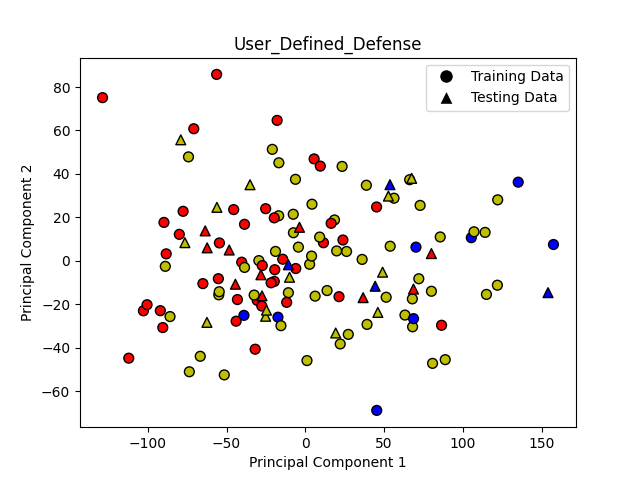
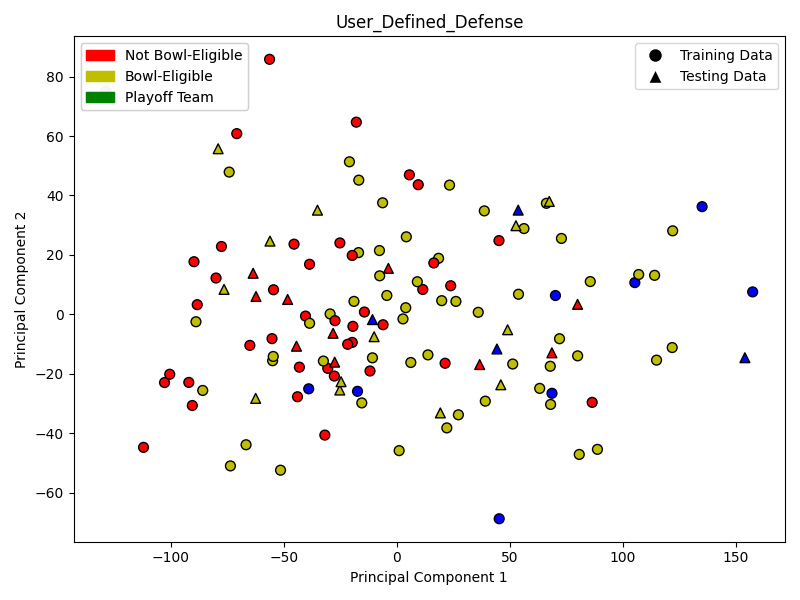
More graph enhancements + comment cleanup)

diff --git a/src/graphs.py b/src/graphs.py
@@ -5,24 +5,54 @@ import seaborn as sns
 import matplotlib.pyplot as plt
 
 
-def knn_scatter(x_train, x_test, y_train, y_test, feature_selection):
+def knn_scatter(x_train, x_test, y_train, y_test, feature_selection) -> None:
+    """
+    This function makes a scatter plot showing the data we are performing kNN on but averaged
+    down to just 2 features (using PCA).
+    :param x_train: x training data (after PCA)
+    :param x_test: x testing data (after PCA)
+    :param y_train: y training data (after PCA)
+    :param y_test: y testing data (after PCA)
+    :param feature_selection: The type of classifier used
+    :return: None
+    """
+    fig, ax = plt.subplots(figsize=(8, 6))
     cmap = ListedColormap(['r', 'y', 'b'])
 
     # Plotting training and testing data
-    plt.scatter(x_train[:, 0], x_train[:, 1], c=y_train, cmap=cmap ,label='Training Data', edgecolor='k', s=50)
-    plt.scatter(x_test[:, 0], x_test[:, 1], c=y_test, cmap=cmap, label='Testing Data', edgecolor='k', s=50, marker='^')
-    plt.xlabel('Principal Component 1')
-    plt.ylabel('Principal Component 2')
-    plt.title(f'{feature_selection}')
-    #plt.legend()
-    # Create a legend with black points
-    handles = [plt.Line2D([0], [0], marker='o', color='w', markerfacecolor='k', markersize=10, label='Training Data'),
+    ax.scatter(x_train[:, 0], x_train[:, 1], c=y_train, cmap=cmap ,label='Training Data', edgecolor='k', s=50)
+    ax.scatter(x_test[:, 0], x_test[:, 1], c=y_test, cmap=cmap, label='Testing Data', edgecolor='k', s=50, marker='^')
+    ax.set_xlabel('Principal Component 1')
+    ax.set_ylabel('Principal Component 2')
+    ax.set_title(f'{feature_selection}')
+
+    # Create a legend showing training vs testing data
+    handles1 = [plt.Line2D([0], [0], marker='o', color='w', markerfacecolor='k', markersize=10, label='Training Data'),
                plt.Line2D([0], [0], marker='^', color='w', markerfacecolor='k', markersize=10, label='Testing Data')]
-    plt.legend(handles=handles)
+    legend1 = ax.legend(loc='upper right', handles=handles1)
+    ax.add_artist(legend1)
+
+    # Create a legend showing label classifications
+    handles2 = [plt.Rectangle((0, 0), 1, 1, color='r', label='Not Bowl-Eligible'),
+                plt.Rectangle((0, 0), 1, 1, color='y', label='Bowl-Eligible'),
+                plt.Rectangle((0, 0), 1, 1, color='g', label='Playoff Team')]
+    legend2 = ax.legend(loc='upper left', handles=handles2)
+    ax.add_artist(legend2)
+
+    # Create a second legend for specific elements (upper right corner)
+    plt.tight_layout()
     plt.savefig(f"../data/plots/scatter_plot_{feature_selection}.png")
     plt.close()
 
-def misclassification_count(m: list):
+def misclassification_count(m: list) -> None:
+    """
+    This function makes a bar graph showing the number of times each sample
+    was misclassified amongst all runs of our kNN algorithms.
+    :param m: list of tuples where each tuple contains:
+    tuple[0]: The team (or sample)
+    tuple[1]: The number of times it was misclassified
+    :return: None
+    """
     labels = [item[0] for item in m]
     values = [item[1] for item in m]
     clfs = [item[2] for item in m]
@@ -35,13 +65,6 @@ def misclassification_count(m: list):
             bar.set_color('yellow')
         elif clf == 2:
             bar.set_color('green')
-
-    #plt.legend(bars[::2], ['Playoff Team', 'Bowl-eligible', 'Not Bowl-eligible'])
-
-    # handles = [plt.Line2D([0], [0], marker='o', color='b', markerfacecolor='k', markersize=10, label='Playoff Team'),
-    #            plt.Line2D([0], [0], marker='^', color='y', markerfacecolor='k', markersize=10, label='Bowl-eligible'),
-    #            plt.Line2D([0], [0], marker='^', color='r', markerfacecolor='k', markersize=10, label='Not Bowl-eligible')]
-    # plt.legend(handles=handles)
 
     legend_elements = [plt.Rectangle((0, 0), 1, 1, color=color) for color in ['green', 'yellow', 'red']]
     plt.legend(legend_elements, ['Playoff Team', 'Bowl-eligible', 'Not Bowl-eligible'])
@@ -56,11 +79,12 @@ def misclassification_count(m: list):
     plt.savefig(f"../data/plots/misclassifications_count.png")
     plt.close()
 
-def accuracy_comparison(labels, values):
+def accuracy_comparison(labels, values) -> None:
     """
     This graphs a comparison graph of different kNN runs by comparing accuracy scores
-    :param labels:
-    :param values:
+    :param labels: List of labels where each label is a classifier type
+    :param values: List of values where each value is an accuracy score for the
+    corresponding classifier
     :return: None
     """
     plt.bar(labels, values)
@@ -71,7 +95,7 @@ def accuracy_comparison(labels, values):
     plt.savefig(f"../data/plots/accuracy_comparison.png")
     plt.close()
 
-def confusion(test, pred, feature_selection, k):
+def confusion(test, pred, feature_selection, k) -> None:
     """
     This function prints a confusion matrix using the actual(test) labels vs the predicted labels.
     The confusion matrix is a heatmap where the darker the blue, the more correct predictions were made.

diff --git a/src/classify.py b/src/classify.py
@@ -14,6 +14,13 @@ import graphs
 scores = []
 
 def user_chosen_features(x, choice) -> DataFrame:
+    """
+    This function isolates the features that are user chosen
+    :param x: X data
+    :param choice: which user chosen option we are using
+    :return: DataFrame representing modified dataset with just the features
+    chosen by user
+    """
     features = None
     if choice == "saehej":
         pass
@@ -26,6 +33,8 @@ def user_chosen_features(x, choice) -> DataFrame:
 
     if features is not None:
         return x[features].copy()
+    else:
+        return None
 
 
 def get_rfe_features(x, y, estimator_type="support_vector_machine", num_features=5) -> DataFrame:
@@ -64,17 +73,28 @@ def get_rfe_features(x, y, estimator_type="support_vector_machine", num_features
         rfe = RFE(estimator=clf, n_features_to_select=num_features)
         rfe.fit(x, y)
 
-    # print(x.columns[rfe.support_])
     # Create a new DataFrame with only the selected features
     if rfe is not None:
         return x[x.columns[rfe.support_]].copy()
 
 
-def add_scores(lst: List):
+def add_scores(lst: List) -> None:
+    """
+    This function adds our scores to lst passed in
+    :param lst: List of scores already accumulated
+    :return: None
+    """
     for entry in scores:
         lst.append(entry)
 
 def knn(x, y, k) -> None:
+    """
+    This functions performs kNN on data passed in
+    :param x: x data (features only)
+    :param y: y data (labels only)
+    :param k: how many neighbors to compare against (3, 5, or 7 in our case)
+    :return: None
+    """
     scores.clear()
     feature_selection_method_list = []
 
